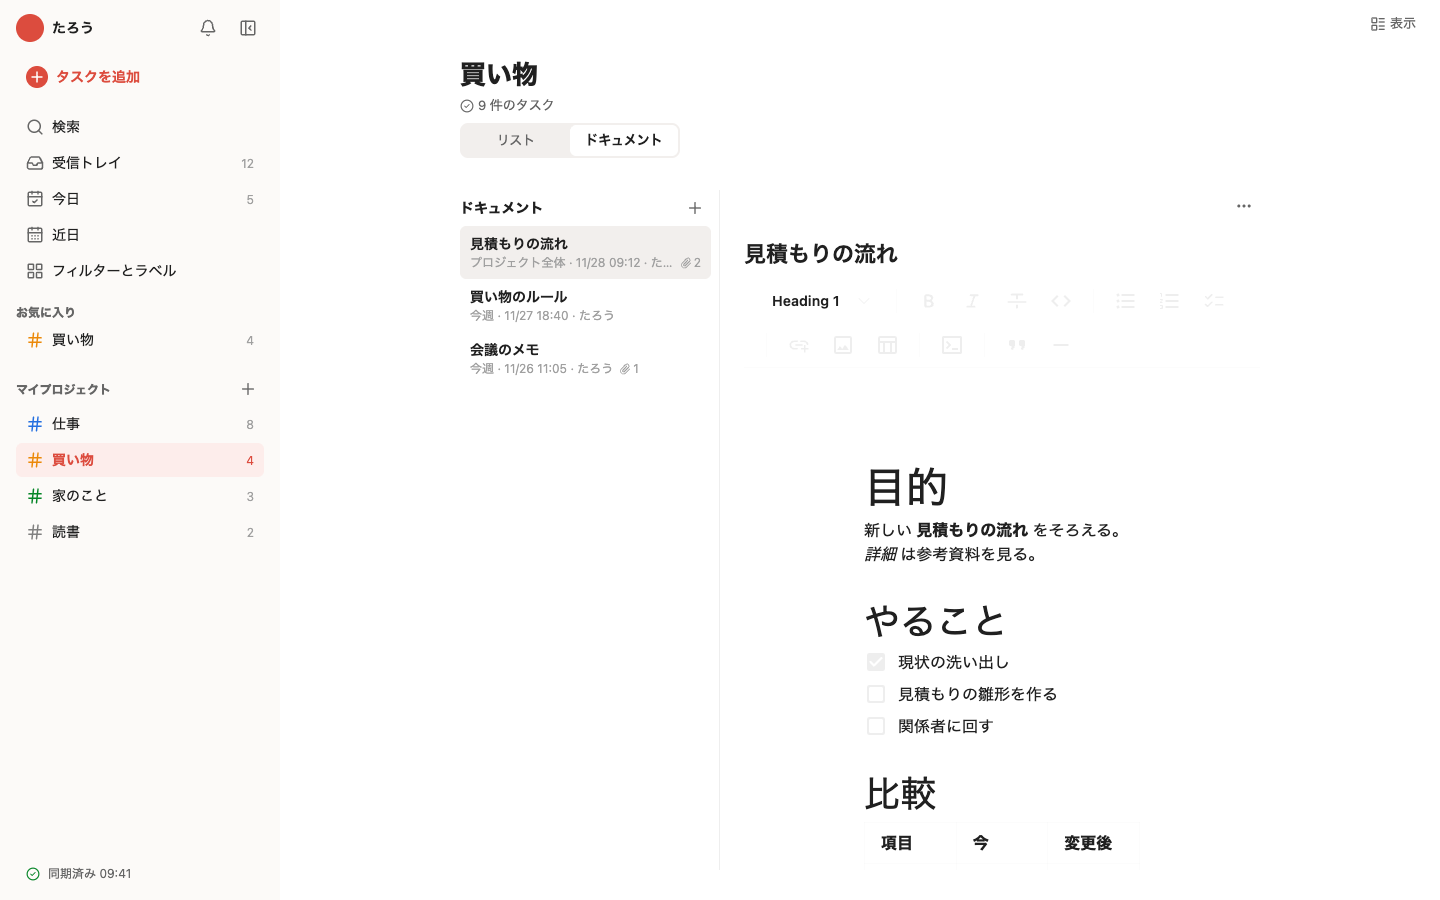
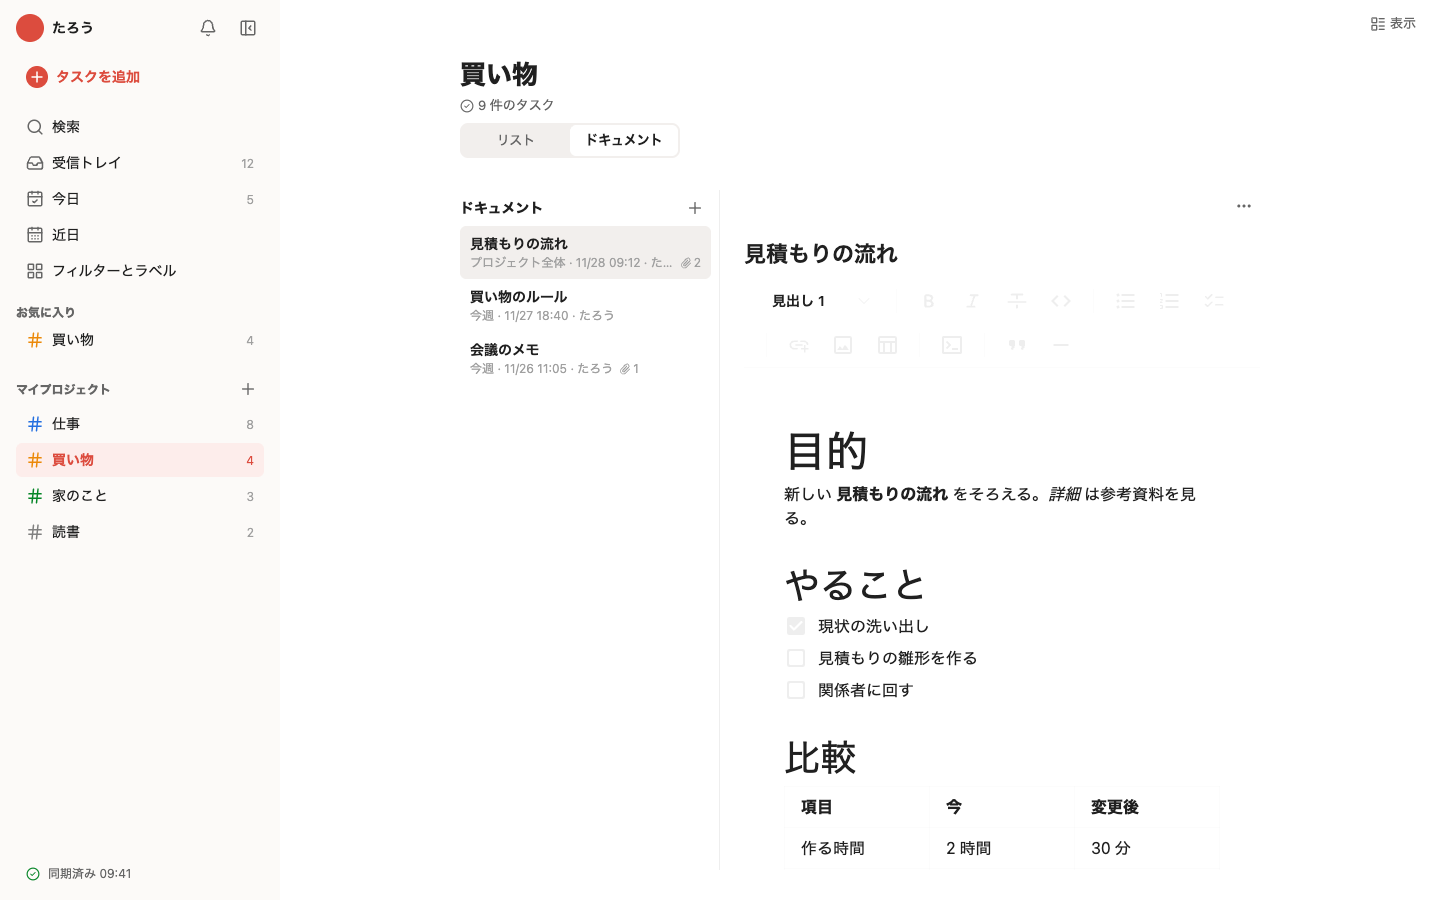
feat(docs): Japanese labels for the editor's menus; fit the editor to the phone width

diff --git a/src/app/crepeLabels.ts b/src/app/crepeLabels.ts
@@ -1,0 +1,49 @@
+/**
+ * Japanese words for Milkdown Crepe's own UI (its defaults are English). Headings go to 3 levels (spec 2026-11-28 §1);
+ * math is off (the Latex feature is turned off too). Pure data; the editor passes it in `featureConfigs`.
+ */
+export const HEADING_OPTIONS = [
+  { label: "本文", level: null },
+  { label: "見出し 1", level: 1 },
+  { label: "見出し 2", level: 2 },
+  { label: "見出し 3", level: 3 },
+];
+
+export const SLASH_MENU = {
+  textGroup: {
+    label: "文字",
+    text: { label: "本文" },
+    h1: { label: "見出し 1" },
+    h2: { label: "見出し 2" },
+    h3: { label: "見出し 3" },
+    h4: null,
+    h5: null,
+    h6: null,
+    quote: { label: "引用" },
+    divider: { label: "区切り線" },
+  },
+  listGroup: {
+    label: "リスト",
+    bulletList: { label: "箇条書き" },
+    orderedList: { label: "番号つき" },
+    taskList: { label: "チェックボックス" },
+  },
+  advancedGroup: {
+    label: "そのほか",
+    image: { label: "画像" },
+    codeBlock: { label: "コード" },
+    table: { label: "表" },
+    math: null,
+  },
+};
+
+export const IMAGE_TEXTS = {
+  inlineUploadButton: "ファイルを選ぶ",
+  inlineUploadPlaceholderText: "または画像の URL を貼る",
+  blockUploadButton: "ファイルを選ぶ",
+  blockUploadPlaceholderText: "または画像の URL を貼る",
+  blockConfirmButton: "決定",
+  blockCaptionPlaceholderText: "画像の説明",
+};
+
+export const LINK_TEXTS = { inputPlaceholder: "リンクを貼る…" };

diff --git a/src/components/DocEditor.tsx b/src/components/DocEditor.tsx
@@ -8,6 +8,7 @@ import "./DocEditor.css";
 import { api } from "../api/client";
 import type { Doc, DocEdit } from "../types/model";
 import { createAutosave } from "../app/autosave";
+import { HEADING_OPTIONS, IMAGE_TEXTS, LINK_TEXTS, SLASH_MENU } from "../app/crepeLabels";
 import { storeFiles } from "../app/attachments/prepare";
 import {
   attachmentOfSrc,
@@ -69,7 +70,11 @@ export function DocEditor({
       features: { [Crepe.Feature.TopBar]: true, [Crepe.Feature.Latex]: false, [Crepe.Feature.AI]: false },
       featureConfigs: {
         [Crepe.Feature.Placeholder]: { text: "本文を書く。「/」で見出しや表を入れる", mode: "doc" },
+        [Crepe.Feature.TopBar]: { headingOptions: HEADING_OPTIONS },
+        [Crepe.Feature.BlockEdit]: SLASH_MENU,
+        [Crepe.Feature.LinkTooltip]: LINK_TEXTS,
         [Crepe.Feature.ImageBlock]: {
+          ...IMAGE_TEXTS,
           onUpload: async (file: File) => {
             let failure: unknown;
             const [info] = await storeFiles([file], (e) => (failure = e));

diff --git a/src/components/DocEditor.css b/src/components/DocEditor.css
@@ -22,3 +22,10 @@
   --crepe-font-title: var(--font-body);
 }
 .doc-editor--mobile .doc-editor__body .milkdown-top-bar { position: sticky; top: 0; z-index: 1; overflow-x: auto; }
+/* iPhone: Crepe's own 60px 120px around the text leaves no room on a phone. The top bar scrolls sideways in one row. */
+.doc-editor--mobile .doc-editor__body .milkdown .ProseMirror { padding: 12px 0 24px; }
+.doc-editor--mobile .doc-editor__body .milkdown .milkdown-top-bar,
+.doc-editor--mobile .doc-editor__body .milkdown .milkdown-top-bar .top-bar-inner { flex-wrap: nowrap; }
+.doc-editor--mobile .doc-editor__body .milkdown .milkdown-top-bar { padding: 0; overflow-x: auto; scrollbar-width: none; }
+/* Desktop: a narrower margin than Crepe's, the pane has its own. */
+.doc-editor:not(.doc-editor--mobile) .doc-editor__body .milkdown .ProseMirror { padding: 24px 40px; }
